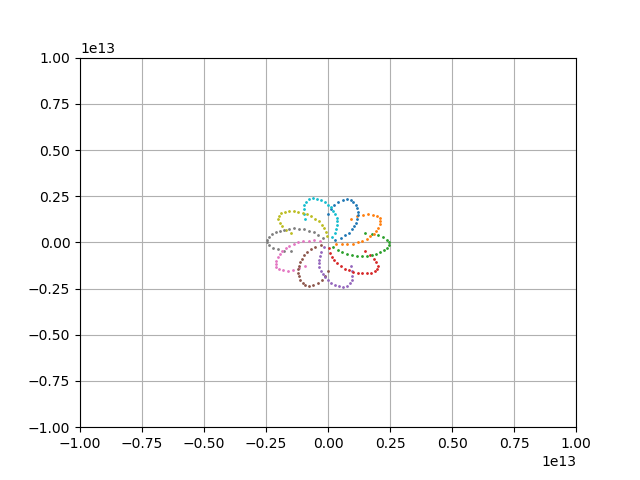
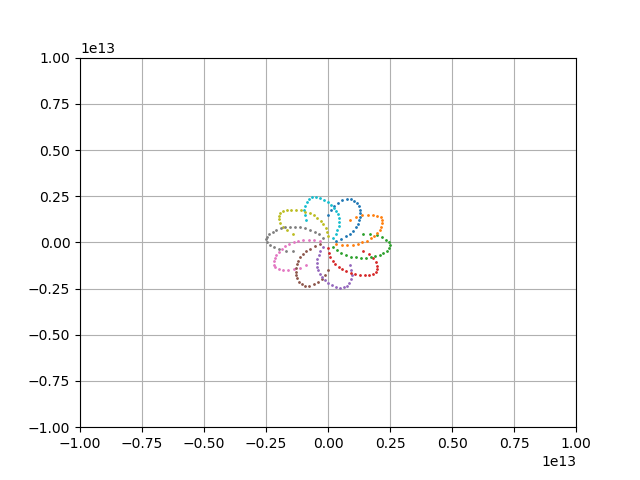
display version

Changed region(s): [[0.4062, 0.4062, 0.625, 0.5938]]

diff --git a/xtest1.html b/xtest1.html
@@ -144,29 +144,29 @@ css/font-awesome.min.css">
 </script>
 
 <div class="animation" align="center">
-    <img id="_anim_img42b63403a7dd4c91aa06a342a31f0f2e">
+    <img id="_anim_img643e8565cf934e7cba47b461b797ddd6">
     <br>
-    <input id="_anim_slider42b63403a7dd4c91aa06a342a31f0f2e" type="range" style="width:350px"
+    <input id="_anim_slider643e8565cf934e7cba47b461b797ddd6" type="range" style="width:350px"
            name="points" min="0" max="1" step="1" value="0"
-           onchange="anim42b63403a7dd4c91aa06a342a31f0f2e.set_frame(parseInt(this.value));"></input>
+           onchange="anim643e8565cf934e7cba47b461b797ddd6.set_frame(parseInt(this.value));"></input>
     <br>
-    <button onclick="anim42b63403a7dd4c91aa06a342a31f0f2e.slower()"><i class="fa fa-minus"></i></button>
-    <button onclick="anim42b63403a7dd4c91aa06a342a31f0f2e.first_frame()"><i class="fa fa-fast-backward">
+    <button onclick="anim643e8565cf934e7cba47b461b797ddd6.slower()"><i class="fa fa-minus"></i></button>
+    <button onclick="anim643e8565cf934e7cba47b461b797ddd6.first_frame()"><i class="fa fa-fast-backward">
         </i></button>
-    <button onclick="anim42b63403a7dd4c91aa06a342a31f0f2e.previous_frame()">
+    <button onclick="anim643e8565cf934e7cba47b461b797ddd6.previous_frame()">
         <i class="fa fa-step-backward"></i></button>
-    <button onclick="anim42b63403a7dd4c91aa06a342a31f0f2e.reverse_animation()">
+    <button onclick="anim643e8565cf934e7cba47b461b797ddd6.reverse_animation()">
         <i class="fa fa-play fa-flip-horizontal"></i></button>
-    <button onclick="anim42b63403a7dd4c91aa06a342a31f0f2e.pause_animation()"><i class="fa fa-pause">
+    <button onclick="anim643e8565cf934e7cba47b461b797ddd6.pause_animation()"><i class="fa fa-pause">
         </i></button>
-    <button onclick="anim42b63403a7dd4c91aa06a342a31f0f2e.play_animation()"><i class="fa fa-play"></i>
+    <button onclick="anim643e8565cf934e7cba47b461b797ddd6.play_animation()"><i class="fa fa-play"></i>
         </button>
-    <button onclick="anim42b63403a7dd4c91aa06a342a31f0f2e.next_frame()"><i class="fa fa-step-forward">
+    <button onclick="anim643e8565cf934e7cba47b461b797ddd6.next_frame()"><i class="fa fa-step-forward">
         </i></button>
-    <button onclick="anim42b63403a7dd4c91aa06a342a31f0f2e.last_frame()"><i class="fa fa-fast-forward">
+    <button onclick="anim643e8565cf934e7cba47b461b797ddd6.last_frame()"><i class="fa fa-fast-forward">
         </i></button>
-    <button onclick="anim42b63403a7dd4c91aa06a342a31f0f2e.faster()"><i class="fa fa-plus"></i></button>
-  <form action="#n" name="_anim_loop_select42b63403a7dd4c91aa06a342a31f0f2e" class="anim_control">
+    <button onclick="anim643e8565cf934e7cba47b461b797ddd6.faster()"><i class="fa fa-plus"></i></button>
+  <form action="#n" name="_anim_loop_select643e8565cf934e7cba47b461b797ddd6" class="anim_control">
     <input type="radio" name="state"
            value="once" > Once </input>
     <input type="radio" name="state"
@@ -181,9 +181,9 @@ css/font-awesome.min.css">
   /* Instantiate the Animation class. */
   /* The IDs given should match those used in the template above. */
   (function() {
-    var img_id = "_anim_img42b63403a7dd4c91aa06a342a31f0f2e";
-    var slider_id = "_anim_slider42b63403a7dd4c91aa06a342a31f0f2e";
-    var loop_select_id = "_anim_loop_select42b63403a7dd4c91aa06a342a31f0f2e";
+    var img_id = "_anim_img643e8565cf934e7cba47b461b797ddd6";
+    var slider_id = "_anim_slider643e8565cf934e7cba47b461b797ddd6";
+    var loop_select_id = "_anim_loop_select643e8565cf934e7cba47b461b797ddd6";
     var frames = new Array(21);
     
   for (var i=0; i<21; i++){
@@ -195,7 +195,7 @@ css/font-awesome.min.css">
     /* set a timeout to make sure all the above elements are created before
        the object is initialized. */
     setTimeout(function() {
-        anim42b63403a7dd4c91aa06a342a31f0f2e = new Animation(frames, img_id, slider_id, 299.0,
+        anim643e8565cf934e7cba47b461b797ddd6 = new Animation(frames, img_id, slider_id, 299.0,
                                  loop_select_id);
     }, 0);
   })()

diff --git a/ringinterpret.py b/ringinterpret.py
@@ -8,21 +8,27 @@ from math import *
 import simcore
 import random
 
-sim = simcore.Sim(1e23, 1e5) #### Default
-max_radius = 1e13
+#sim = simcore.Sim(1e23, 1e5) #### Default
+#max_radius = 1e13
 
-# sim = simcore.Sim(2e20, 0, ring_mass=2e27, starting_radius=1.5e11, step_time=1e5)
-# max_radius = sim.starting_radius * 1.5
-    
+sim = simcore.Sim(2e20, 0, ring_mass=2e27, starting_radius=1.5e11, step_time=1e5)
+max_radius = sim.starting_radius * 1.5
+
+# sim = simcore.Sim(2e20, 7e3, ring_mass=2e27, starting_radius=1e10, step_time=1e5)
+# max_radius = 1e12
+
+# sim = simcore.Sim(2e20, 7e3, ring_mass=3e27, starting_radius=1e10, step_time=1e5)
+# max_radius = 1e12
+
 def step():
     for i in range(100):
         sim.step()
 
-    print(sim.steps, 'max radius', max(sim.radii), sim.n_rings, sim.rings_added)
+    print(sim.steps, 'max radius', max(sim.radii), sim.n_rings, sim.rings_added, 'vel', sim.velocities[0])
 
     points = {}
-    for i, r in enumerate(sim.radii[1:]):
-        n = 10 #343
+    for i, r in enumerate(sim.radii):#[1:]):
+        n = 30 #343
         for j in range(n):
             theta = 2 * pi * (j + (0.1 *i))  / n
             #gap = r - sim.radii[i-1]

diff --git a/balls_ring.py b/balls_ring.py
@@ -23,7 +23,7 @@ ylim = (-interpret.max_radius,interpret.max_radius)
 fig = plt.figure()
 ax = fig.add_subplot(111, autoscale_on=False, xlim=xlim, ylim=ylim)
 ax.grid()
-
+ax.set_facecolor('xkcd:black')
 
 all_scatters = None
 
@@ -39,7 +39,7 @@ def animate(t):
     for p in points:
         x = points[p]['x']
         y = points[p]['y']
-        scatter = ax.plot([], [], 'o', markersize=1)[0]
+        scatter = ax.plot([], [], 'o', markersize=5)[0]
         scatter.set_data([x, y])
         #scatter.set_visible(False)
         scatters.append(scatter)
@@ -48,9 +48,11 @@ def animate(t):
     return scatters
 
 #interval in milliseconds
-ani = animation.FuncAnimation(fig, animate, init_func=init, interval=300, blit=True)
-ani.save("xtest1.html")
+ani = animation.FuncAnimation(fig, animate, interval=300, blit=True)
+#ani.save("xtest1.html")
 
+figManager = plt.get_current_fig_manager()
+figManager.window.showMaximized()
 
 plt.show()
 

diff --git a/simcore.py b/simcore.py
@@ -5,8 +5,8 @@ Created on Sat Sep 22 11:47:35 2018
 @author: pjhud
 """
 from math import *
-import ringaccels as accelfuncs
-#import sphereaccels as accelfuncs
+#import ringaccels as accelfuncs
+import sphereaccels as accelfuncs
 
 class Sim:
     def __init__(self, mass_flux, initial_velocity, ring_mass=1e30, starting_radius=1e10, step_time=1e5):
